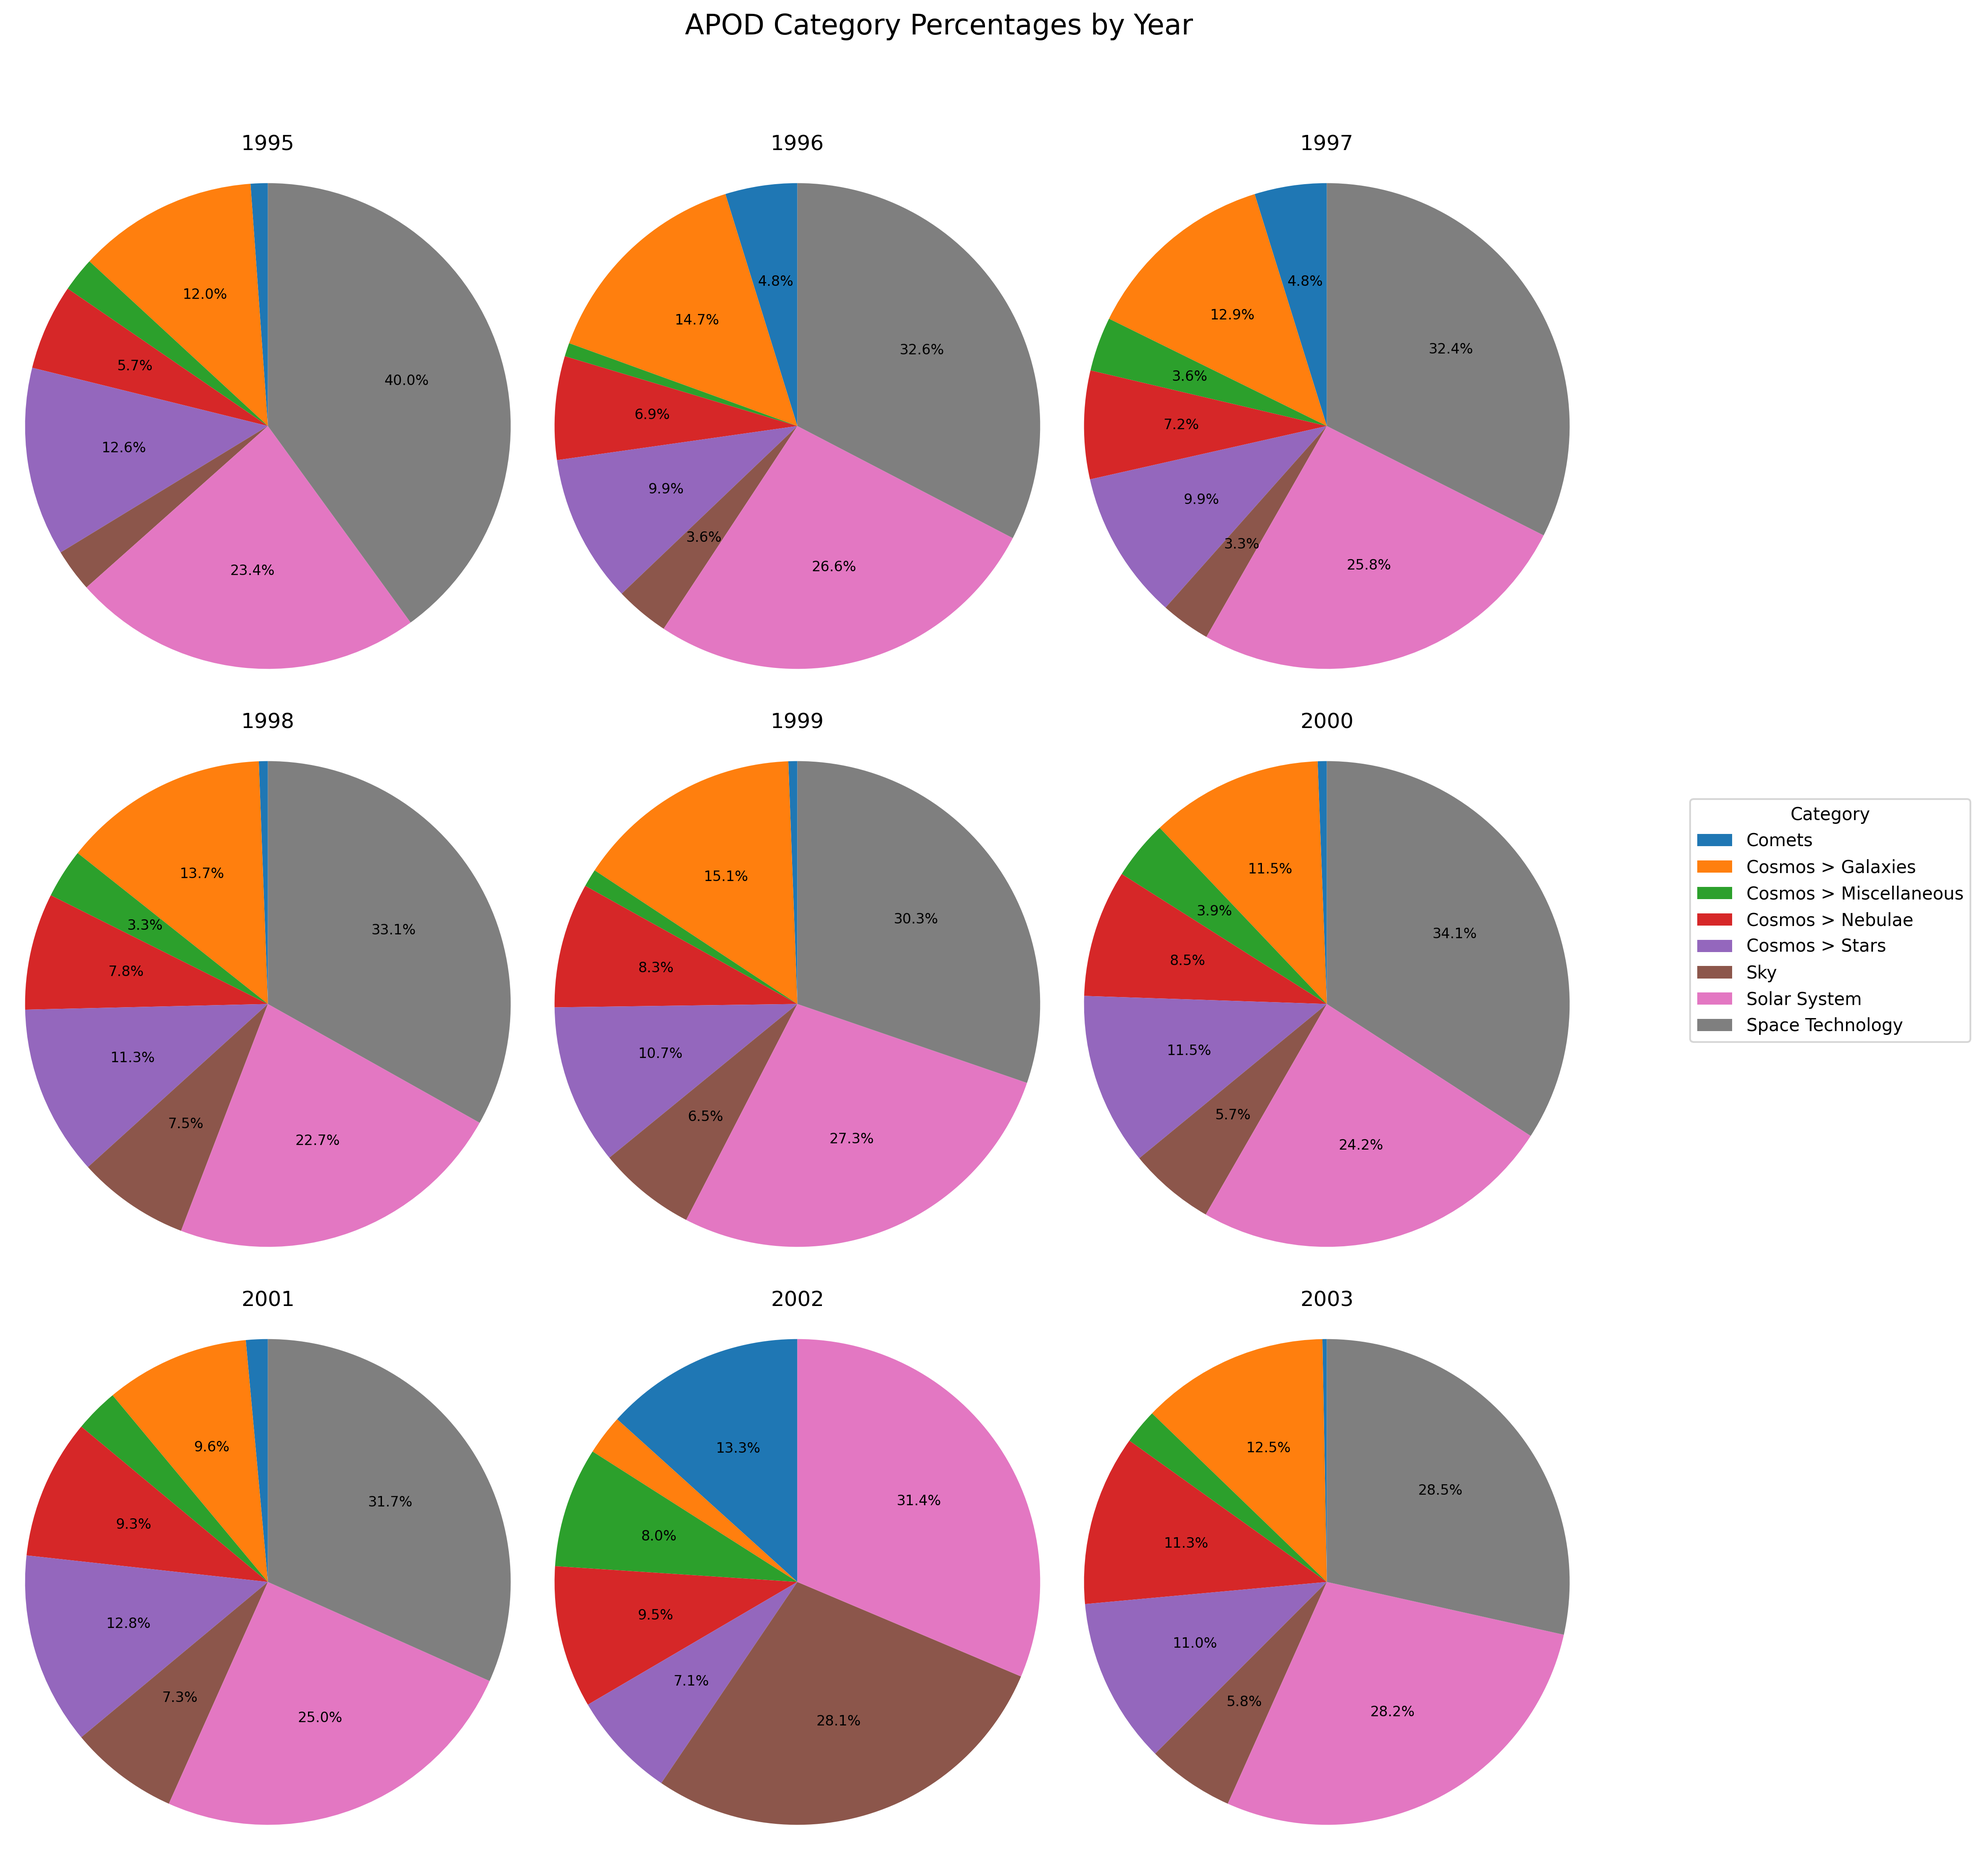
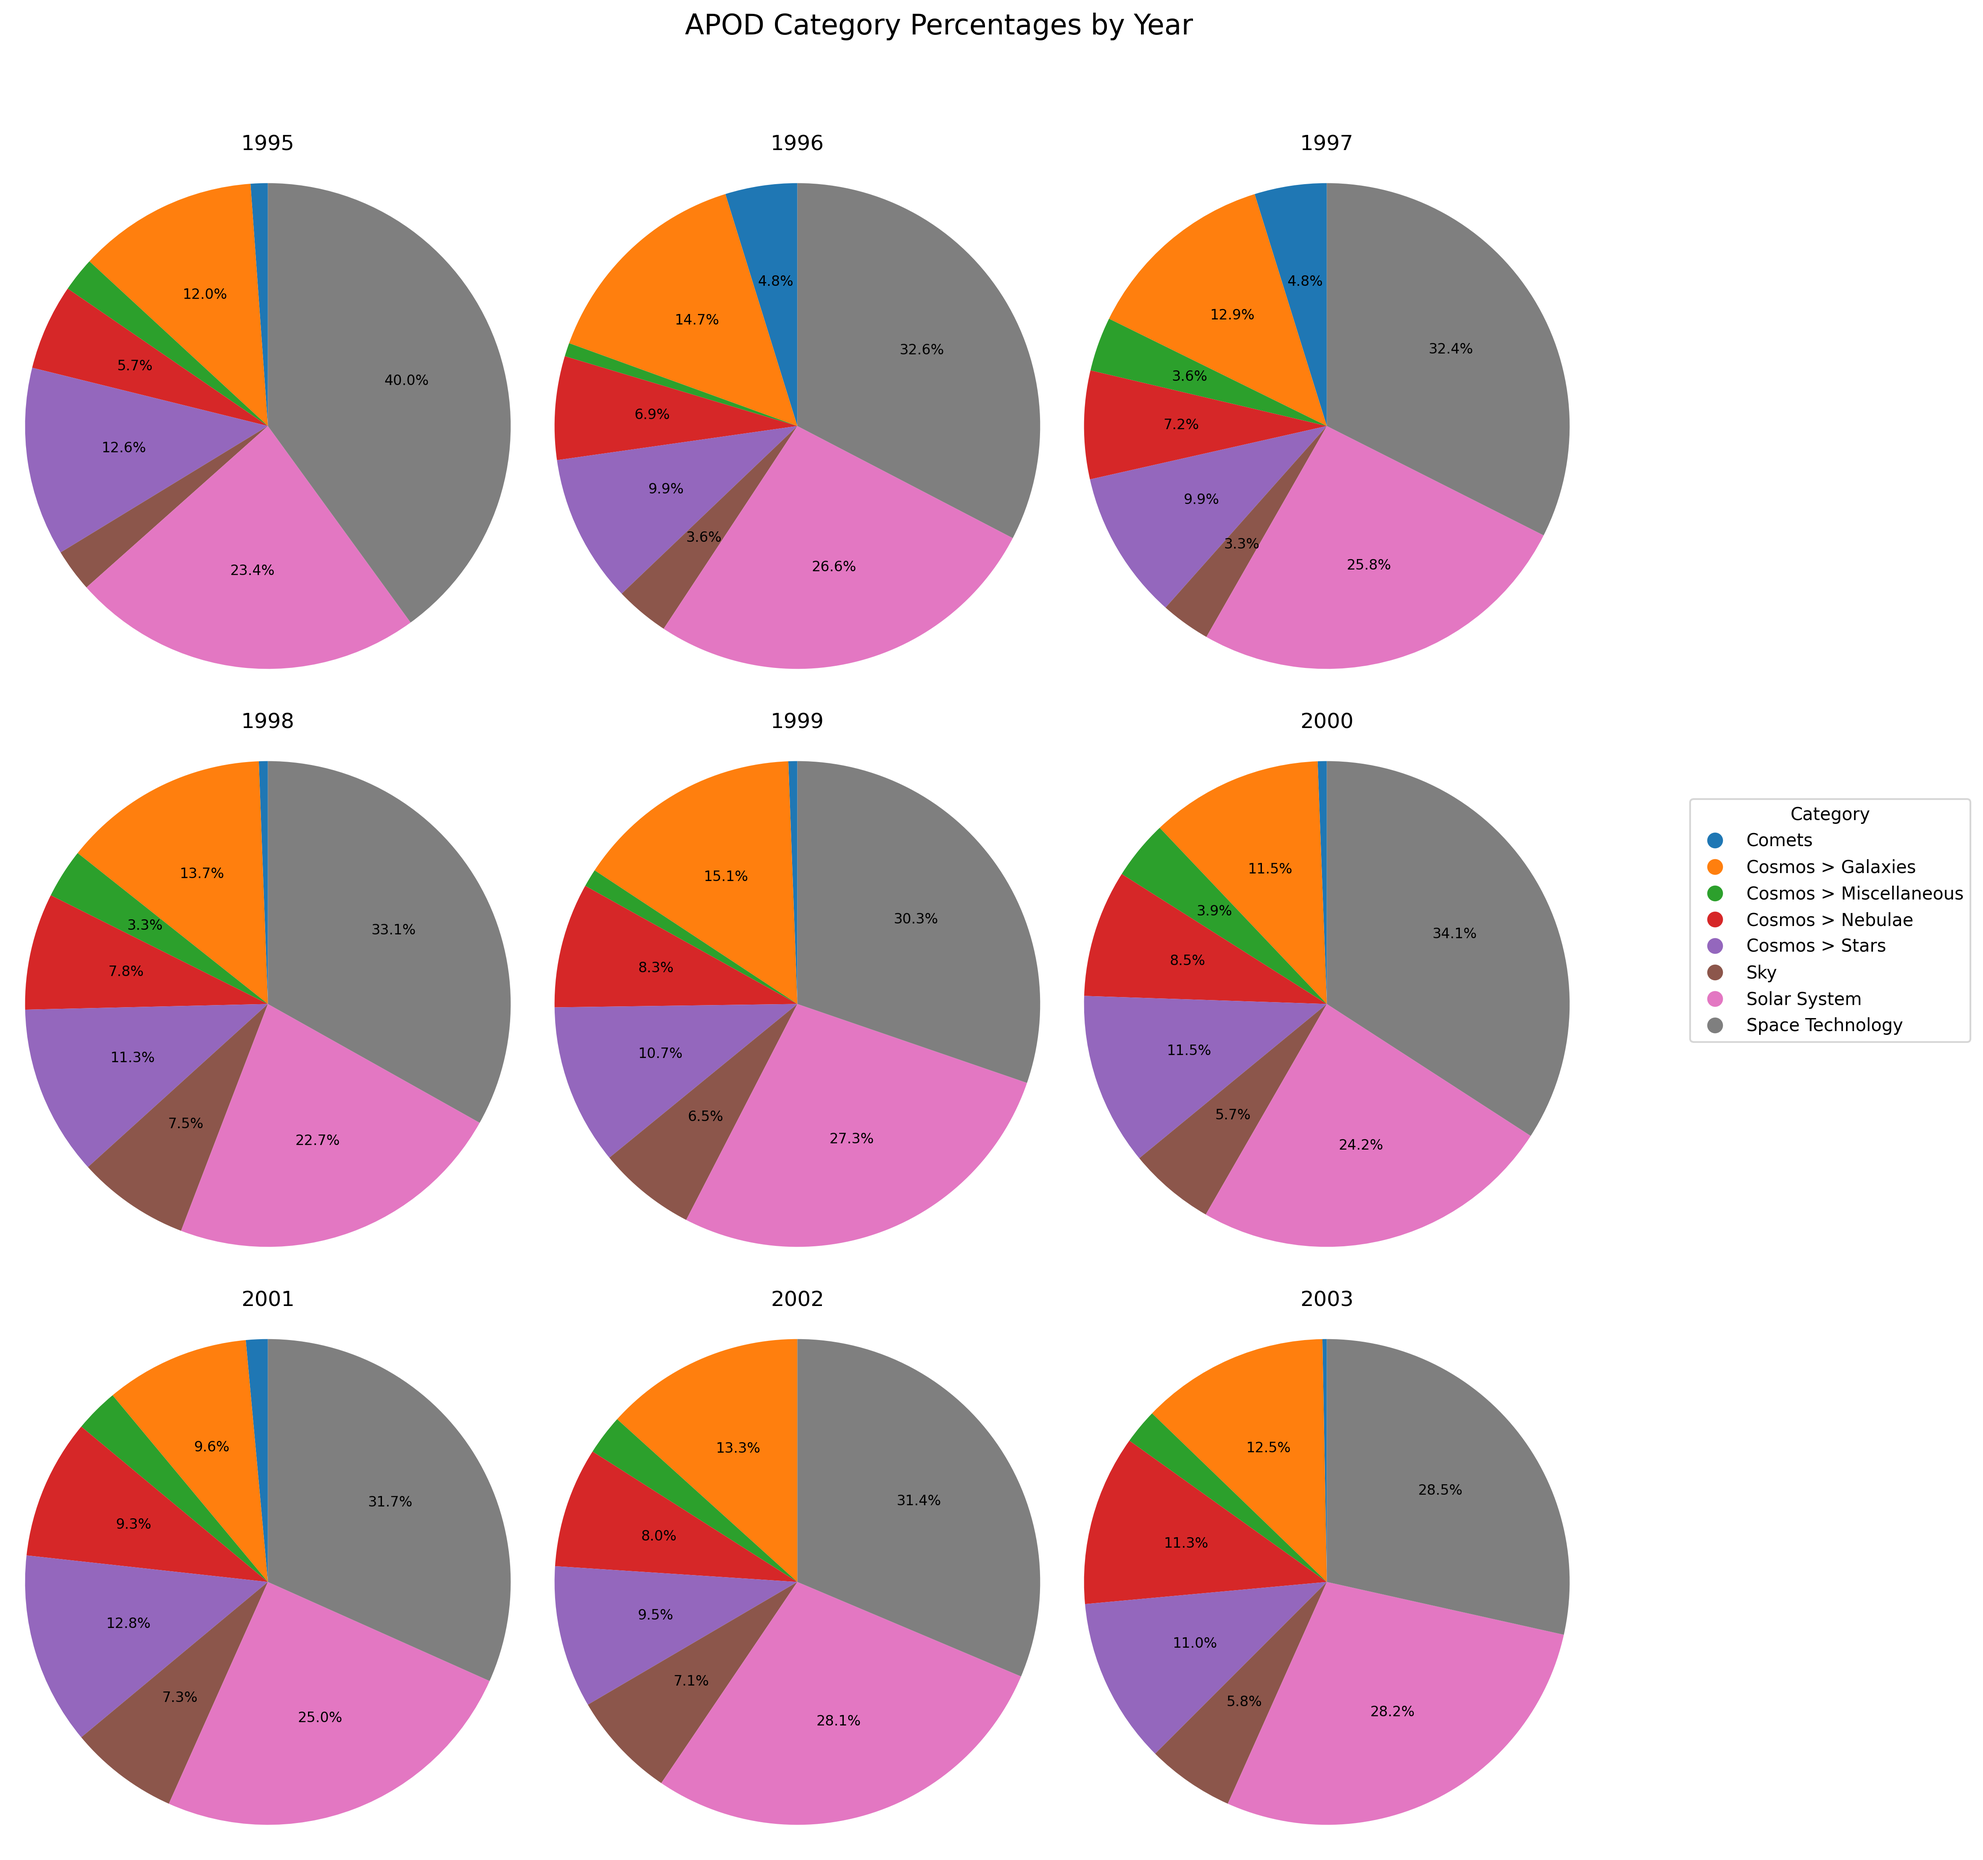
Color determination fix
Fixed bug where different colors were assigned to the same category if one category had no entries

Changed region(s): [[0.2804, 0.7173, 0.5296, 0.998], [0.8411, 0.4366, 0.8722, 0.5614]]

diff --git a/src/apod_visualizer.py b/src/apod_visualizer.py
@@ -2,12 +2,11 @@ import math
 
 import pandas as pd
 import matplotlib.pyplot as plt
-from matplotlib.backends.backend_pdf import PdfPages
 from pathlib import Path
 import math
 
 
-from apod_manager import categorizeDataset, remove_low_confidence_entries
+from apod_manager import categorizeDataset, print_confidence_distribution, remove_low_confidence_entries
 
 def plot_category_counts_by_period(
     labeled_df: pd.DataFrame,
@@ -118,8 +117,10 @@ def save_yearly_category_pie_chart_pages(
     """
     Save yearly APOD category pie charts as PNG image pages.
 
-    Each PNG contains multiple yearly pie charts.
-    This avoids needing to open a PDF in a browser.
+    FIXED:
+    - Each category has a stable color
+    - Slice names are removed from the pie charts
+    - Legend is used instead
     """
 
     if charts_per_page <= 0:
@@ -144,6 +145,13 @@ def save_yearly_category_pie_chart_pages(
 
     years = sorted(df["year"].unique())
     all_categories = sorted(df[category_col].unique())
+
+    # Stable color mapping
+    cmap = plt.get_cmap("tab10")
+    category_colors = {
+        category: cmap(i % cmap.N)
+        for i, category in enumerate(all_categories)
+    }
 
     cols = math.ceil(math.sqrt(charts_per_page))
     rows = math.ceil(charts_per_page / cols)
@@ -185,8 +193,11 @@ def save_yearly_category_pie_chart_pages(
 
             category_counts = category_counts[category_counts > 0]
 
+            pie_colors = [category_colors[cat] for cat in category_counts.index]
+
             ax.pie(
                 category_counts.values,
+                colors=pie_colors,
                 autopct=autopct_format,
                 startangle=90,
                 textprops={"fontsize": 8}
@@ -195,8 +206,21 @@ def save_yearly_category_pie_chart_pages(
             ax.set_title(f"{year}", fontsize=12)
             ax.axis("equal")
 
+        legend_handles = [
+            plt.Line2D(
+                [0], [0],
+                marker="o",
+                linestyle="",
+                markerfacecolor=category_colors[category],
+                markeredgecolor=category_colors[category],
+                markersize=8,
+                label=category
+            )
+            for category in all_categories
+        ]
+
         fig.legend(
-            all_categories,
+            handles=legend_handles,
             title="Category",
             loc="center right",
             bbox_to_anchor=(1.05, 0.5)
@@ -218,12 +242,12 @@ def save_yearly_category_pie_chart_pages(
         page_number += 1
 
 
-
-
 if __name__ == "__main__":
 
     labeled_df = categorizeDataset(True)                             # Get the labeled dataset with predicted confidences
     confident_df = remove_low_confidence_entries(labeled_df, .5)     # Remove entries with <50% confidence
+    print_confidence_distribution(confident_df)                    # Print average label confidences for new "confident" df
+
 
     plot_category_counts_by_period(confident_df, period_years=1)              # Plot category counts of confident df by 1-year periods
 
